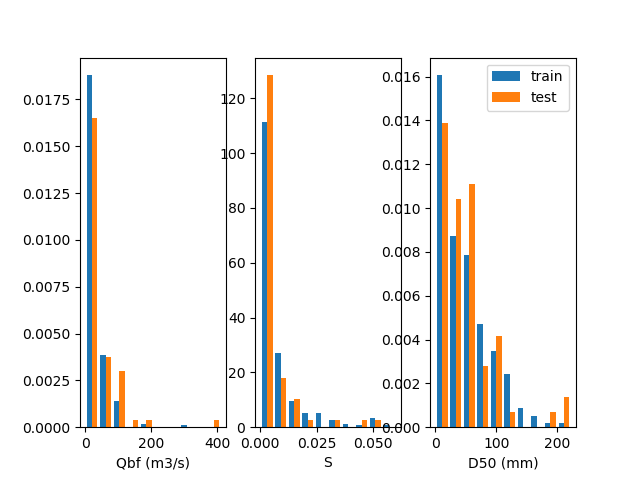
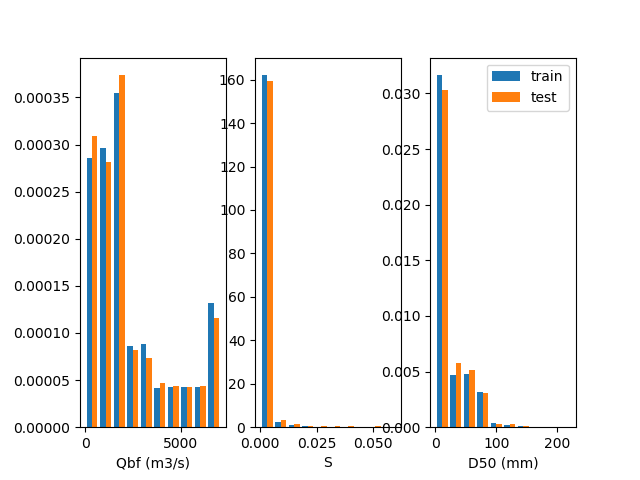
sse

diff --git a/channel_geom_nn.py b/channel_geom_nn.py
@@ -7,10 +7,11 @@ from sklearn.preprocessing import MinMaxScaler
 import tensorflow as tf
 
 # read the data
-df = pd.read_csv('data/mcelroy_dataclean.csv') # read data set using pandas
+# df = pd.read_csv('data/mcelroy_dataclean.csv') # read data set using pandas
 # df = pd.read_csv('data/wilkerson_dataclean.csv') # read data set using pandas
 # df = pd.read_csv('data/combined.csv') # read data set using pandas
 # df = pd.read_csv('data/combined_modified.csv') # read data set using pandas
+df = pd.read_csv('data/combined_modified_cut.csv') # read data set using pandas
 df = df.dropna(inplace=False)  # Remove all nan entries.
 print('Data summary:\n')
 print(df.describe(), '\n\n') # Overview of dataset
@@ -79,7 +80,7 @@ ys = tf.placeholder("float", [None, y_train.shape[1]], name='y')
 output, W_O = neural_net_model(xs, X_train.shape[1])
 
 # our mean squared error cost function
-loss = tf.reduce_mean(tf.square(output - ys))
+loss = tf.reduce_sum(tf.square(output - ys))
 
 # Gradinent Descent optimiztion just discussed above for updating weights and biases
 train = tf.train.GradientDescentOptimizer(0.001).minimize(loss)
@@ -100,7 +101,7 @@ with tf.Session() as sess:
     saver = tf.train.Saver()
     #saver.restore(sess,'channel_geom_nn.ckpt')
     
-    for i in range(5):
+    for i in range(500):
         for j in range(X_train.shape[0]):
             # Run loss and train with each sample
             sess.run([loss, train], feed_dict = {xs:X_train[j,:].reshape(1, X_train.shape[1]), 
